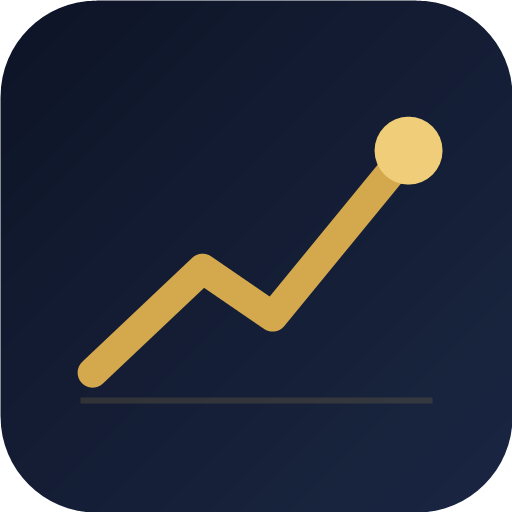
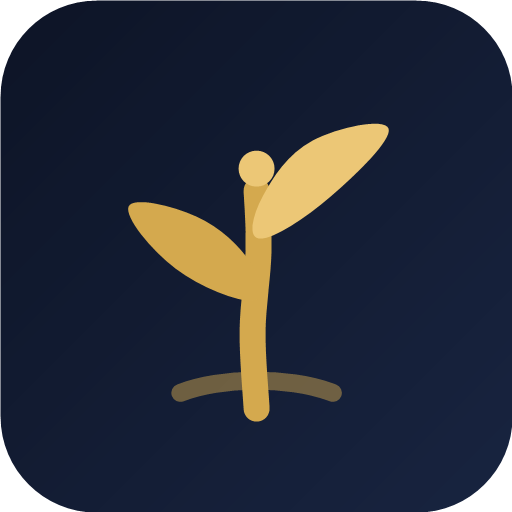
Rebrand to Mali, add Invest tab with allocation planner

Changed region(s): [[0.125, 0.2188, 0.875, 0.8438]]

diff --git a/index.html b/index.html
@@ -3,7 +3,7 @@
 <head>
 <meta charset="UTF-8">
 <meta name="viewport" content="width=device-width, initial-scale=1, viewport-fit=cover, user-scalable=no">
-<title>Sarmaya — Portfolio</title>
+<title>Mali</title>
 <link rel="manifest" href="manifest.webmanifest">
 <link rel="apple-touch-icon" href="icon-180.png">
 <meta name="apple-mobile-web-app-capable" content="yes">
@@ -126,7 +126,7 @@
 </head>
 <body>
 <header>
-  <h1>Sarmaya <span>سرمایہ</span></h1>
+  <h1>Mali <span>مالی</span></h1>
   <div style="display:flex;align-items:center">
     <div id="updated"></div>
     <button id="refreshBtn" onclick="refreshAll(true)">↻</button>
@@ -152,6 +152,17 @@
     <div id="advisorContent"><div class="card muted">No advisor report yet. It will appear here after the first scheduled review.</div></div>
   </div>
 
+  <div id="page-invest" class="page">
+    <div class="card">
+      <div class="adv-head">Plan a new investment</div>
+      <p class="muted" style="margin-bottom:10px">Enter the amount you want to add. It gets divided using the allocation plan from the latest review.</p>
+      <input id="investAmt" type="number" inputmode="decimal" placeholder="Amount in Rs — e.g. 100000"
+        style="width:100%;background:var(--bg);border:1px solid var(--line);color:var(--txt);border-radius:10px;padding:13px;font-size:16px;margin-bottom:10px">
+      <button class="btn gold" onclick="planInvest()">Divide it for me</button>
+    </div>
+    <div id="investPlan"></div>
+  </div>
+
   <div id="page-settings" class="page">
     <div class="card">
       <div class="adv-head">Holdings</div>
@@ -173,13 +184,14 @@
 
 <nav>
   <button id="nav-portfolio" class="active" onclick="show('portfolio')"><span class="ico">📊</span>Portfolio</button>
+  <button id="nav-invest" onclick="show('invest')"><span class="ico">🌱</span>Invest</button>
   <button id="nav-advisor" onclick="show('advisor')"><span class="ico">🧭</span>Advisor</button>
   <button id="nav-settings" onclick="show('settings')"><span class="ico">⚙️</span>Settings</button>
 </nav>
 <div id="toast"></div>
 
 <script>
-const RAW = 'https://raw.githubusercontent.com/brianestimastersllc-coder/Sarmaya/main';
+const RAW = 'https://raw.githubusercontent.com/brianestimastersllc-coder/Mali/main';
 const LS_HOLD = 'sarmaya-holdings-v1', LS_PRICES = 'sarmaya-prices-v1', LS_ADVICE = 'sarmaya-advice-v1', LS_HIST = 'sarmaya-history-v1';
 
 const DEFAULT_HOLDINGS = {
@@ -420,6 +432,67 @@ function importData(ev) {
     } catch { toast('Invalid file'); }
   };
   rd.readAsText(f);
+}
+
+const FALLBACK_ALLOC = {
+  updated: '2026-07-04',
+  rationale: 'Default plan: new money goes mostly into broad Islamic index ETFs, Meezan Bank on dips, an active fund leg, and a dry-powder reserve.',
+  items: [
+    { sym:'MZNPETF', name:'Meezan Pakistan ETF',       weight:30, note:'Broad index exposure — the default home for new money' },
+    { sym:'MIIETF',  name:'Mahaana Islamic Index ETF', weight:20, note:'Second index leg, low cost' },
+    { sym:'MEBL',    name:'Meezan Bank',               weight:20, max_price:500, note:'Only below Rs 500 — otherwise this slice goes to the others' },
+    { sym:'MIF',     name:'Meezan Islamic Fund',       weight:15, note:'Actively managed equity leg' },
+    { sym:'AICF',    name:'Al-Ameen Islamic Cash Fund',weight:15, note:'Dry powder — deploy on a 10–15% market correction' }
+  ]
+};
+
+function lookupPrice(sym) {
+  if (typeof prices.stocks[sym] === 'number') return { p: prices.stocks[sym], kind: 'stock' };
+  if (typeof prices.funds[sym] === 'number')  return { p: prices.funds[sym],  kind: 'fund' };
+  return null;
+}
+
+function planInvest() {
+  const amt = parseFloat(document.getElementById('investAmt').value);
+  const out = document.getElementById('investPlan');
+  if (!amt || amt <= 0) { toast('Enter an amount first'); return; }
+  const alloc = (advice && advice.allocation && advice.allocation.items) ? advice.allocation : FALLBACK_ALLOC;
+  const skipped = [];
+  const eligible = alloc.items.filter(it => {
+    const lp = lookupPrice(it.sym);
+    if (it.max_price && lp && lp.p > it.max_price) { skipped.push(it); return false; }
+    return true;
+  });
+  const tw = eligible.reduce((s, it) => s + it.weight, 0);
+  let leftover = 0;
+  const rows = eligible.map(it => {
+    const share = amt * it.weight / tw;
+    const lp = lookupPrice(it.sym);
+    let unitsTxt = '';
+    let spend = share;
+    if (lp && lp.kind === 'stock') {
+      const units = Math.floor(share / lp.p);
+      spend = units * lp.p;
+      leftover += share - spend;
+      unitsTxt = `≈ ${fmt0.format(units)} shares @ ${fmt2.format(lp.p)}`;
+    } else if (lp) {
+      unitsTxt = `≈ ${fmt2.format(share / lp.p)} units @ NAV ${fmt2.format(lp.p)}`;
+    }
+    return { it, share, spend, unitsTxt, pct: it.weight / tw * 100 };
+  });
+  out.innerHTML = `
+    <div class="card">
+      <div class="adv-head" style="font-size:15px">Suggested split of ${rs(amt)}</div>
+      ${rows.map(r => `
+        <div class="adv-item" style="border-bottom:1px solid var(--line);padding-bottom:8px">
+          <div class="t">${r.it.sym} <span style="font-weight:400;color:var(--dim);font-size:12px">${r.it.name || ''}</span>
+            <span style="margin-left:auto;color:var(--gold);font-weight:700">${rs(r.spend)}</span></div>
+          <div class="d">${r.pct.toFixed(0)}% — ${r.unitsTxt}${r.it.note ? '<br>' + r.it.note : ''}</div>
+        </div>`).join('')}
+      ${leftover >= 1 ? `<div class="d muted" style="margin-top:8px">~${rs(leftover)} left from rounding whole shares — add it to the fund/cash slice.</div>` : ''}
+      ${skipped.length ? `<div class="d muted" style="margin-top:6px">Skipped: ${skipped.map(s => `${s.sym} (above Rs ${s.max_price})`).join(', ')} — weight moved to the rest.</div>` : ''}
+      <div class="advnote" style="margin-top:10px">${alloc.rationale || ''}<br><span class="muted">Plan from review dated ${alloc.updated || '—'}. Verify prices with your broker before ordering.</span></div>
+    </div>`;
 }
 
 function show(p) {

diff --git a/sw.js b/sw.js
@@ -1,4 +1,4 @@
-const CACHE = 'sarmaya-v1';
+const CACHE = 'mali-v1';
 const ASSETS = ['./', './index.html', './manifest.webmanifest', './icon-180.png', './icon-512.png'];
 
 self.addEventListener('install', e => {